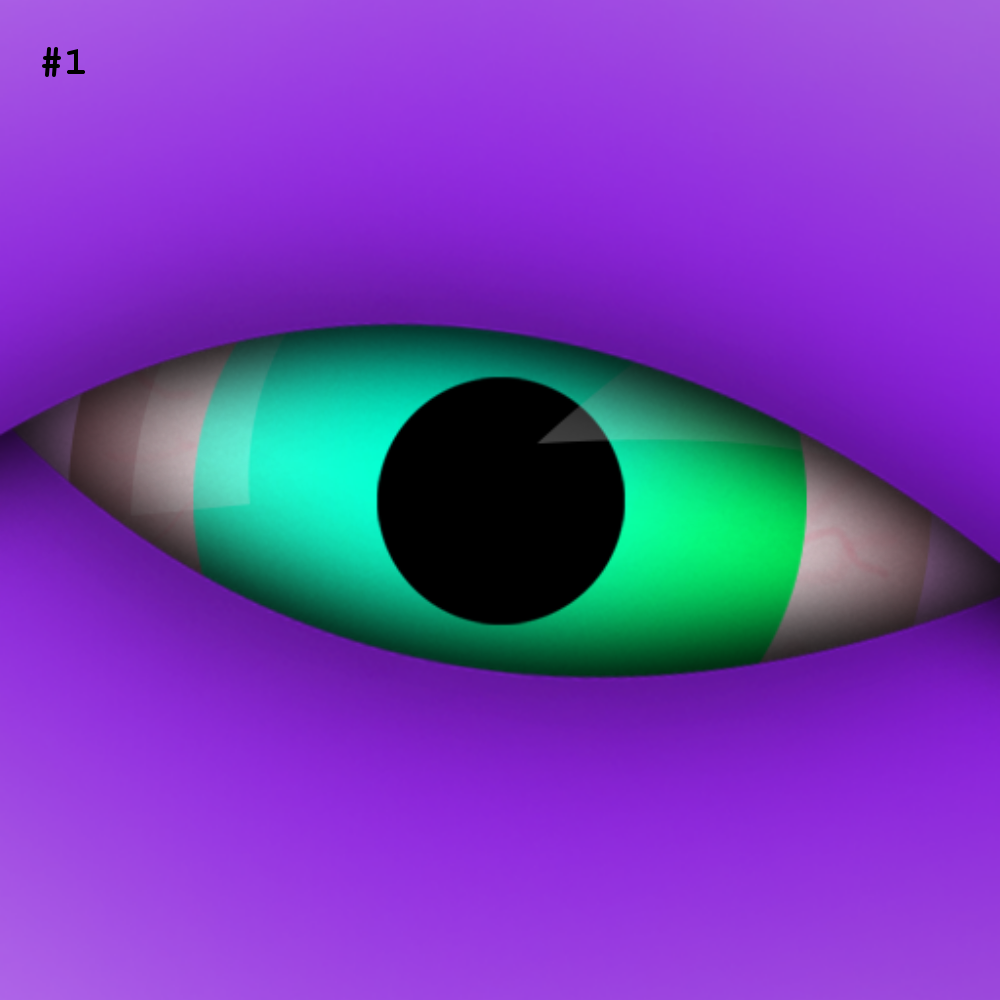
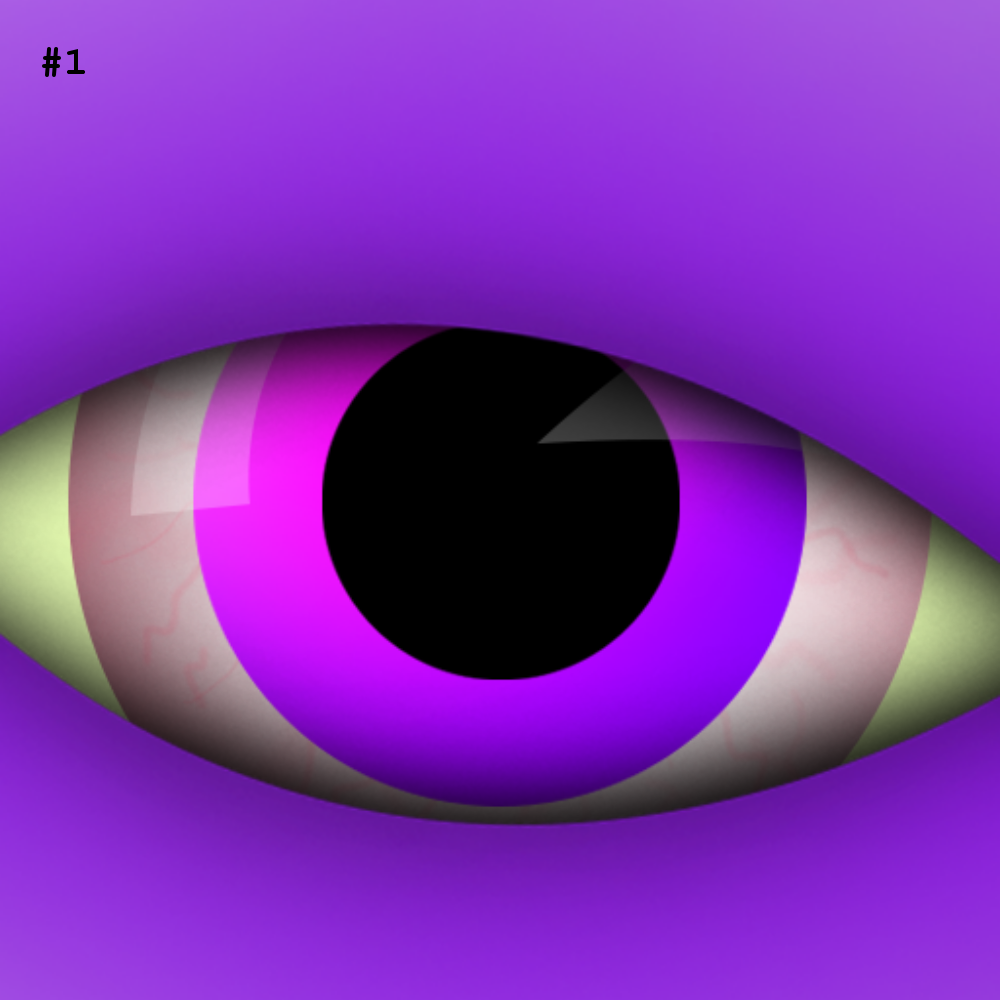
fix some bugs

diff --git a/index.js b/index.js
@@ -37,7 +37,7 @@ const drawBackground = () => {
 const addMetadata = (_dna, _edition) => {
   let dateTime = Date.now();
   let tempMetadata = {
-    dna: _dna,
+    dna: _dna.join(""),
     edition: _edition,
     date: dateTime,
     attributes: attributesList,
@@ -72,10 +72,9 @@ const drawElement = (_element) => {
   addAttributes(_element);
 };
 
-const constructLayerToDna = (_dna, _layers) => {
-  let DnaSegment = _dna.toString().match(/.{1,2}/g);
-  let mappedDnaToLayers = _layers.map((layer) => {
-    let selectedElement = layer.elements[parseInt(DnaSegment) % layer.elements.length];
+const constructLayerToDna = (_dna = [], _layers = []) => {
+  let mappedDnaToLayers = _layers.map((layer, index) => {
+    let selectedElement = layer.elements[_dna[index]];
     return {
       location: layer.location,
       position: layer.position,
@@ -86,13 +85,17 @@ const constructLayerToDna = (_dna, _layers) => {
   return mappedDnaToLayers;
 };
 
-const isDnaUnique = (_DnaList = [], _dna) => {
-  let foundDna = _DnaList.find((i) => i === _dna);
+const isDnaUnique = (_DnaList = [], _dna = []) => {
+  let foundDna = _DnaList.find((i) => i.join("") === _dna.join(""));
   return foundDna == undefined ? true : false;
 };
 
-const createDna = (_len) => {
-  let randNum = Math.floor(Number(`1e${_len}`) + Math.random() * Number(`9e${_len}`));
+const createDna = (_layers) => {
+  let randNum = [];
+  _layers.forEach((layer) => {
+    let num = Math.floor(Math.random() * layer.elements.length);
+    randNum.push(num);
+  });
   return randNum;
 };
 
@@ -104,7 +107,8 @@ const startCreating = async () => {
   writeMetaData("");
   let editionCount = 1;
   while (editionCount <= editionSize) {
-    let newDna = createDna(layers.length * 2 - 1);
+    console.log(editionCount);
+    let newDna = createDna(layers);
     console.log(dnaList);
     if (isDnaUnique(dnaList, newDna)) {
       let results = constructLayerToDna(newDna, layers);
@@ -115,6 +119,7 @@ const startCreating = async () => {
       });
 
       await Promise.all(loadedElements).then((elementArray) => {
+        ctx.cealrRect(0, 0, width, height);
         drawBackground();
         elementArray.forEach((element) => {
           drawElement(element);
